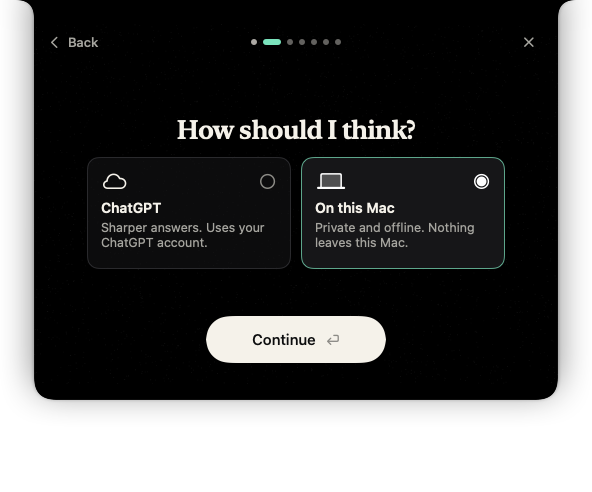
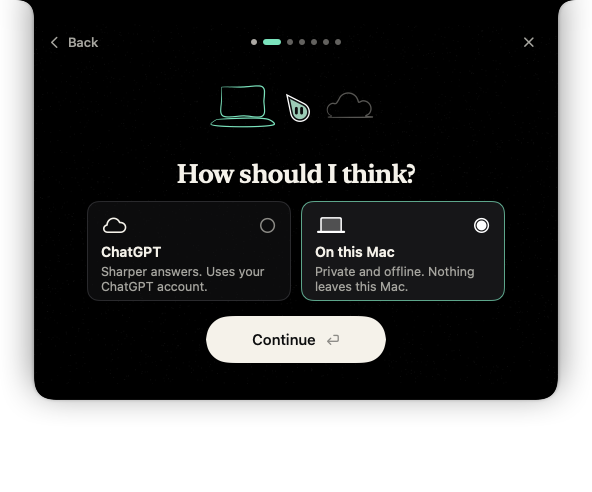
Onboarding brain: bring back the laptop-and-cloud sketch
The owner liked it. Cards drop to 100 pt so Continue keeps a 16 pt gap.

diff --git a/App/Onboarding/OnboardingParts.swift b/App/Onboarding/OnboardingParts.swift
@@ -255,6 +255,51 @@ struct PermissionSketch: View {
     }
 }
 
+struct ChoiceSketch: View {
+    @Environment(\.inkProgress) private var progress
+    let local: Bool
+
+    var body: some View {
+        ZStack(alignment: .topLeading) {
+            InkLine(points: InkStroke.rectangle(in: CGRect(x: 26, y: 30, width: 70, height: 48)), width: 2, seed: 41, progress: progress, color: tint(local))
+            InkLine(points: [CGPoint(x: 18, y: 84), CGPoint(x: 104, y: 84), CGPoint(x: 114, y: 92), CGPoint(x: 8, y: 92), CGPoint(x: 18, y: 84)], width: 2, seed: 42, progress: progress, color: tint(local))
+            InkLine(points: Self.cloud, width: 2.2, seed: 43, progress: progress, color: tint(!local), smooth: false)
+            PerryCharacterView(pose: pose, size: 46)
+                .position(x: 152, y: 66)
+        }
+        .frame(width: 300, height: 110)
+        .animation(.easeOut(duration: 0.2), value: local)
+    }
+
+    static let cloud: [CGPoint] = {
+        let bumps: [(CGPoint, CGFloat, Double, Double)] = [
+            (CGPoint(x: 213, y: 68), 11, .pi * 0.6, .pi * 1.6),
+            (CGPoint(x: 237, y: 57), 17, .pi * 1.1, .pi * 1.92),
+            (CGPoint(x: 262, y: 66), 13, .pi * 1.3, .pi * 2.4)
+        ]
+        var points = [CGPoint(x: 203, y: 80)]
+        for (center, radius, from, to) in bumps {
+            for step in 0...6 {
+                let angle = from + (to - from) * Double(step) / 6
+                points.append(CGPoint(x: center.x + radius * cos(angle), y: center.y + radius * sin(angle)))
+            }
+        }
+        points.append(CGPoint(x: 278, y: 80))
+        points.append(CGPoint(x: 203, y: 80.5))
+        return points
+    }()
+
+    private func tint(_ on: Bool) -> Color {
+        on ? PerryTheme.Colors.accent : PerryTheme.Colors.text.opacity(0.35)
+    }
+
+    private var pose: PerryCharacterPose {
+        var pose = PerryCharacterPose()
+        pose.gaze = CGVector(dx: local ? -0.9 : 0.9, dy: -0.1)
+        return pose
+    }
+}
+
 struct SketchbookGrain: View {
     var body: some View {
         Canvas { context, size in

diff --git a/App/Onboarding/OnboardingBeats.swift b/App/Onboarding/OnboardingBeats.swift
@@ -220,8 +220,10 @@ struct BrainBeat: View {
     }
 
     var body: some View {
-        OnboardingBeatLayout(title: "How should I think?", artHeight: 40) {
-            Color.clear
+        OnboardingBeatLayout(title: "How should I think?") {
+            ChoiceSketch(local: selected == .local)
+                .scaleEffect(0.6)
+                .modifier(InkDrawOn())
         } detail: {
             VStack(spacing: 10) {
                 HStack(spacing: 10) {
@@ -333,7 +335,7 @@ struct BrainBeat: View {
             }
             .multilineTextAlignment(.leading)
             .padding(14)
-            .frame(width: 204, height: 112, alignment: .topLeading)
+            .frame(width: 204, height: 100, alignment: .topLeading)
             .background(PerryTheme.Colors.surface.opacity(isSelected ? 1 : 0.55), in: RoundedRectangle(cornerRadius: 12, style: .continuous))
             .overlay {
                 RoundedRectangle(cornerRadius: 12, style: .continuous)
